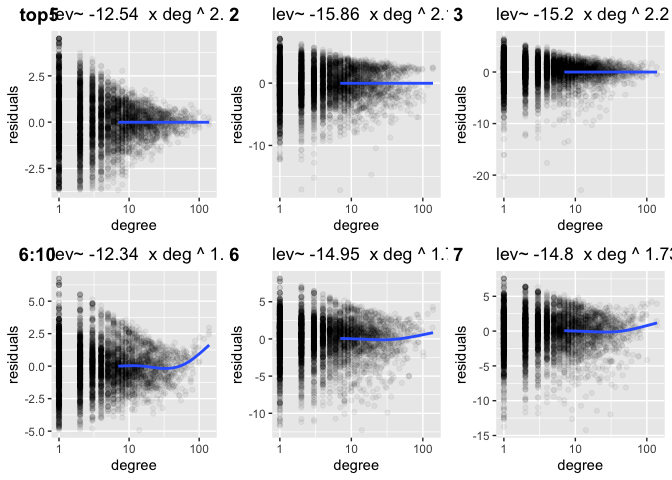
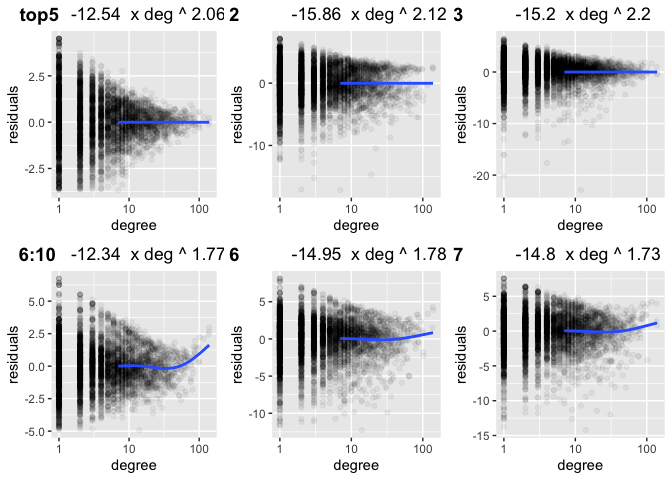
clean up title.  add attenuation experiment.

diff --git a/README.md b/README.md
@@ -3,20 +3,25 @@ A Localization Diagnostic for Spectral Graph Analysis
 Karl Rohe
 7/17/2020
 
-This creates a plot to diagnose localization in the spectral analysis of
-graphs. The function is called `plotDegLevReg`. In this plot, each node
-is a point. The x-axis gives the nodes degree (on the log scale). The
-y-axis represents the leverage (on the log scale). However, it is
-actually the residuals in an OLS of log(leverage) ~ log(degree). That
-model is only fit using nodes of degree 5 or larger. There is a GAM
-added for nodes with degree 7 or larger.
+This respository contains R code that creates a plot. This plot should
+be used to diagnose localization in the spectral analysis of graphs. The
+function is called `plotDegLevReg`. It takes a vector of node degrees
+and node leverage scores.
+
+In this plot, each node is represented as a point. The x-axis gives the
+node’s degree (on the log scale). The y-axis represents the node’s
+leverage (on the log scale). However, it is not the actual leverage
+score. Instead, it is the residual in an OLS of log(leverage) ~
+log(degree). For stability reasons, this model is only fit using the
+nodes with degree 5 or larger. The residuals are computed for all nodes
+with degree\>0. There is a blue smoothing line added for nodes with
+degree 7 or larger.
 
 If the blue line curls up on the right side of the plot, then this
-diagnostic indicates localization on the high degree nodes.
+indicates localization on the high degree nodes.
 
-If there appear to be more than one “cluster” on the left side of the
-plot, then this diagnostic indicates localization on the low degree
-nodes.
+If there appear to be more than one “cluster” of points on the left side
+of the plot, then this indicates localization on the low degree nodes.
 
 Here are some simulations to illustrate the code and the interpretation
 of the diagnostic.
